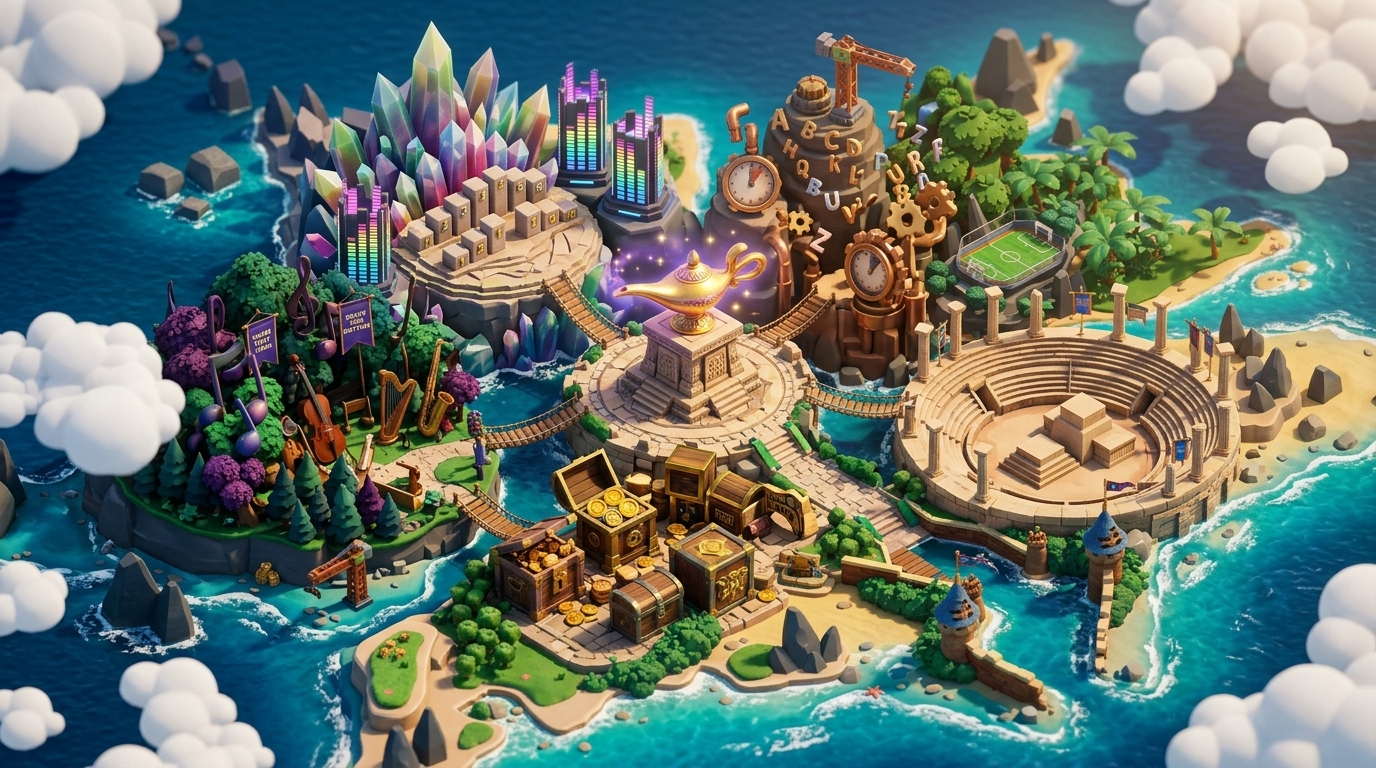
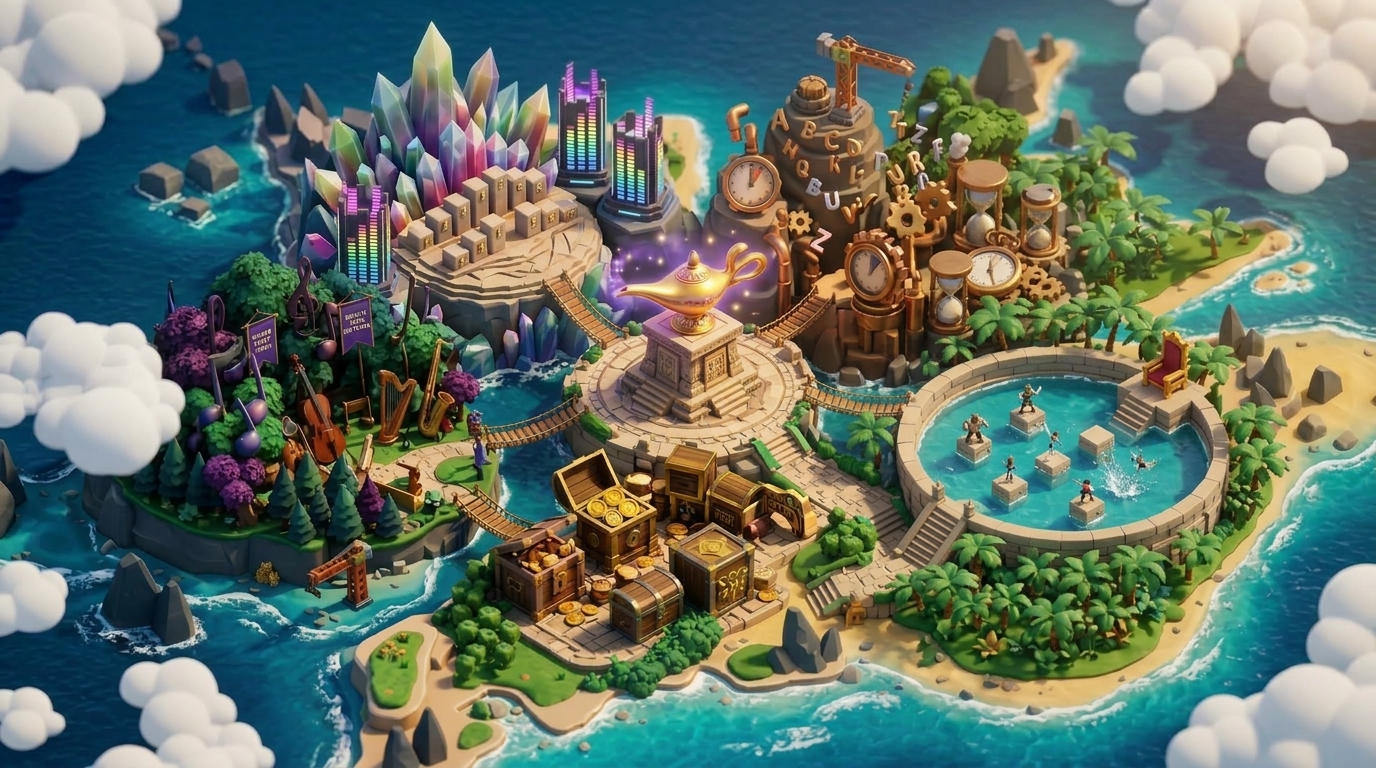
Aggiornamento automatico

diff --git a/Quiz/src/ClassificaGenerale_Board.tsx b/Quiz/src/ClassificaGenerale_Board.tsx
@@ -50,10 +50,10 @@ const EditableScore: React.FC<{ index: number; score: number; setScore: (i: numb
             (e.target as HTMLInputElement).blur();
           }
         }}
-        className="bg-transparent text-6xl font-black text-center w-full focus:outline-none focus:ring-2 focus:ring-white/20 rounded-xl transition-all hover:bg-white/5 cursor-text"
+        className="bg-transparent text-6xl font-black text-center w-full focus:outline-none focus:ring-2 focus:ring-white/20 rounded-xl transition-all hover:bg-white/5 cursor-text drop-shadow-[0_2px_8px_rgba(0,0,0,0.8)]"
         style={{ width: `${Math.max(displayValue.length, 3)}ch` }}
       />
-      <span className="text-2xl font-black ml-2 opacity-50">PT</span>
+      <span className="text-2xl font-black ml-2 opacity-70 drop-shadow-[0_2px_8px_rgba(0,0,0,0.8)]">PT</span>
       <div className="absolute -bottom-1 left-0 w-full h-0.5 bg-white/20 scale-x-0 group-hover:scale-x-100 transition-transform" />
     </div>
   );
@@ -167,10 +167,12 @@ const ClassificaGenerale_Board: React.FC = () => {
   const maxScore = Math.max(...scores, 10000); // Scale histogram to at least 10k
   const isBox0 = activeBox === 0;
 
+  const effectiveBg = (!isBox0 && (setup?.sfondo || '/Icone/sfondi/sfondo_generale_torneo.jpg')) || '';
+
   return (
     <div
       className="relative w-[1920px] h-[1080px] bg-[#0a0a0a] text-white flex flex-col px-10 py-8 overflow-hidden font-sans"
-      style={(!isBox0 && setup?.sfondo) ? { backgroundImage: `url("${assetUrl(setup.sfondo)}")`, backgroundSize: 'cover', backgroundPosition: 'center', backgroundRepeat: 'no-repeat' } : {}}
+      style={effectiveBg ? { backgroundImage: `url("${assetUrl(effectiveBg)}")`, backgroundSize: 'cover', backgroundPosition: 'center', backgroundRepeat: 'no-repeat' } : {}}
     >
       <style>{`
         @keyframes custom-blink {
@@ -182,8 +184,10 @@ const ClassificaGenerale_Board: React.FC = () => {
         }
       `}</style>
 
-      {/* Background decoration */}
-      {(!setup?.sfondo || isBox0) && (
+
+
+      {/* Background decoration in Box 0 */}
+      {(!effectiveBg || isBox0) && (
         <div className="absolute top-0 left-0 w-full h-full overflow-hidden pointer-events-none opacity-20">
           <div className="absolute top-[-10%] left-[-10%] w-[40%] h-[40%] bg-red-600/20 blur-[120px] rounded-full" />
           <div className="absolute top-[20%] right-[-10%] w-[40%] h-[40%] bg-blue-600/20 blur-[120px] rounded-full" />

diff --git a/Quiz/src/MappaTorneoBoard.tsx b/Quiz/src/MappaTorneoBoard.tsx
@@ -101,12 +101,12 @@ const ZONES: ZoneInfo[] = [
     x: 78,
     y: 62,
     zoomX: 78,
-    zoomY: 54,
+    zoomY: 55,
     title: 'TERMOPILI — SCONTRO FINALE',
     phaseNumber: 3,
     phaseLabel: 'FASE FINALE: TERMOPILI',
-    subtitle: 'La Resa dei Conti tra Prescelti',
-    description: 'Scontro finale! Le squadre schierano 6, 5, 4 o 3 prescelti in base al delta punti per decretare il vincitore.',
+    subtitle: 'L\'Arena d\'Acqua & La Scalinata del Trono',
+    description: 'Scontro finale sull\'arena d\'acqua! I prescelti si sfidano sui cubi sospesi: chi sbaglia fa splash! Chi conquisterà la scalinata verso il trono?',
     badgeEmoji: '⚔',
     accentColor: '#ef4444',
     bgGradient: 'from-rose-500 to-red-700',
@@ -177,12 +177,12 @@ function easeInOutCubic(x: number): number {
 function HeavyCloudBlanket({ isDissolving = false }: { isDissolving?: boolean }) {
   return (
     <div
-      className={`relative w-[820px] h-[540px] pointer-events-none select-none flex items-center justify-center transition-all duration-1000 ${
+      className={`relative w-[880px] h-[580px] pointer-events-none select-none flex items-center justify-center transition-all duration-1000 ${
         isDissolving ? 'opacity-0 scale-125' : 'opacity-100 scale-100'
       }`}
     >
       {/* Ombra di contatto morbida e racchiusa sotto il centro della nuvola */}
-      <div className="absolute w-[480px] h-[220px] rounded-full bg-black/25 blur-2xl transform scale-y-60 pointer-events-none" />
+      <div className="absolute w-[520px] h-[240px] rounded-full bg-black/25 blur-2xl transform scale-y-60 pointer-events-none" />
 
       {/* SVG Volumetrico ad alta densità con cumuli bianchi espansi e sfumature di luce */}
       <svg

diff --git a/Quiz/src/Gioco classifica musicale_Board.tsx b/Quiz/src/Gioco classifica musicale_Board.tsx
@@ -596,13 +596,15 @@ const ClassificaMusicaleBoard = ({ interactive = true, revealAll = false }: { in
     { value: 1, top: "89.000%" }  // Blu 4
   ];
 
+  const currentSfondo = (gameData as any).sfondo || '/Icone/sfondi/sfondo_box2_cristalli.jpg';
+
   return (
     <div 
-      className={`relative w-full min-h-screen ${(gameData as any).sfondo ? 'bg-black' : 'bg-gradient-to-br from-neutral-950 to-neutral-900'} overflow-hidden flex items-center justify-center transition-transform duration-100 ${showError ? 'animate-shake' : ''}`}
-      style={(gameData as any).sfondo ? { backgroundImage: assetUrlCss((gameData as any).sfondo), backgroundSize: 'cover', backgroundPosition: 'center', backgroundRepeat: 'no-repeat' } : {}}
+      className={`relative w-full min-h-screen ${currentSfondo ? 'bg-black' : 'bg-gradient-to-br from-neutral-950 to-neutral-900'} overflow-hidden flex items-center justify-center transition-transform duration-100 ${showError ? 'animate-shake' : ''}`}
+      style={currentSfondo ? { backgroundImage: assetUrlCss(currentSfondo), backgroundSize: 'cover', backgroundPosition: 'center', backgroundRepeat: 'no-repeat' } : {}}
     >
       {/* EFFETTI DI LUCE SULLO SFONDO (Decorativi) */}
-      {!(gameData as any).sfondo && (
+      {!currentSfondo && (
         <>
           <div className="absolute top-[-20%] left-[-10%] w-[50%] h-[50%] bg-blue-500/10 blur-[120px] rounded-full pointer-events-none" />
           <div className="absolute bottom-[-20%] right-[-10%] w-[50%] h-[50%] bg-purple-500/10 blur-[120px] rounded-full pointer-events-none" />

diff --git a/Quiz/src/Gioco classifica_Board.tsx b/Quiz/src/Gioco classifica_Board.tsx
@@ -250,13 +250,15 @@ const ClassificaBoard = ({ interactive = true, revealAll = false }: { interactiv
     { value: 1, top: "89.370%" }
   ];
 
+  const currentSfondo = (gameData as any).sfondo || '/Icone/sfondi/sfondo_box2_cristalli.jpg';
+
   return (
     <div 
-      className={`relative w-full min-h-screen ${(gameData as any).sfondo ? 'bg-black' : 'bg-gradient-to-br from-neutral-950 to-neutral-900'} overflow-hidden flex items-center justify-center transition-transform duration-100 ${showError ? 'animate-shake' : ''}`}
-      style={(gameData as any).sfondo ? { backgroundImage: assetUrlCss((gameData as any).sfondo), backgroundSize: 'cover', backgroundPosition: 'center', backgroundRepeat: 'no-repeat' } : {}}
+      className={`relative w-full min-h-screen ${currentSfondo ? 'bg-black' : 'bg-gradient-to-br from-neutral-950 to-neutral-900'} overflow-hidden flex items-center justify-center transition-transform duration-100 ${showError ? 'animate-shake' : ''}`}
+      style={currentSfondo ? { backgroundImage: assetUrlCss(currentSfondo), backgroundSize: 'cover', backgroundPosition: 'center', backgroundRepeat: 'no-repeat' } : {}}
     >
       {/* EFFETTI DI LUCE SULLO SFONDO (Decorativi) */}
-      {!(gameData as any).sfondo && (
+      {!currentSfondo && (
         <>
           <div className="absolute top-[-20%] left-[-10%] w-[50%] h-[50%] bg-blue-500/10 blur-[120px] rounded-full pointer-events-none" />
           <div className="absolute bottom-[-20%] right-[-10%] w-[50%] h-[50%] bg-purple-500/10 blur-[120px] rounded-full pointer-events-none" />

diff --git a/Quiz/src/Il mio nome è nessuno_musicale_Board.tsx b/Quiz/src/Il mio nome è nessuno_musicale_Board.tsx
@@ -458,10 +458,12 @@ const GameBoard: React.FC<{ interactive?: boolean; revealAll?: boolean }> = ({ i
     return () => window.removeEventListener('keydown', handleKeyDown);
   }, [step, isAutoAdvancing, lockedStep, setLockedStep, setAssignedTeam, setBookedTeam]);
 
+  const currentSfondo = gameData.sfondo || '/Icone/sfondi/sfondo_box1_foresta_musicale.jpg';
+
   return (
     <div 
-      className={`relative w-full min-h-screen ${gameData.sfondo ? 'bg-black' : 'bg-gradient-to-br from-neutral-950 to-neutral-900'} overflow-hidden flex items-center justify-center transition-transform duration-100 ${showError ? 'animate-shake' : ''}`}
-      style={gameData.sfondo ? { backgroundImage: assetUrlCss(gameData.sfondo), backgroundSize: 'cover', backgroundPosition: 'center', backgroundRepeat: 'no-repeat' } : {}}
+      className={`relative w-full min-h-screen ${currentSfondo ? 'bg-black' : 'bg-gradient-to-br from-neutral-950 to-neutral-900'} overflow-hidden flex items-center justify-center transition-transform duration-100 ${showError ? 'animate-shake' : ''}`}
+      style={currentSfondo ? { backgroundImage: assetUrlCss(currentSfondo), backgroundSize: 'cover', backgroundPosition: 'center', backgroundRepeat: 'no-repeat' } : {}}
     >
       
       {/* Overlay di Errore (Flash Rosso + X Centrale) */}

diff --git a/Quiz/src/Il mio nome è nessuno_img_Board.tsx b/Quiz/src/Il mio nome è nessuno_img_Board.tsx
@@ -293,10 +293,12 @@ const GameBoard = ({ interactive = true, revealAll = false }: { interactive?: bo
     return step >= (revealStep * 2);
   };
 
+  const currentSfondo = gameData.sfondo || '/Icone/sfondi/sfondo_box1_foresta_musicale.jpg';
+
   return (
     <div
-      className={`relative w-full h-full ${gameData.sfondo ? 'bg-black' : 'bg-gradient-to-br from-neutral-950 to-neutral-900'} overflow-hidden transition-transform duration-100 ${showError ? 'animate-shake' : ''}`}
-      style={gameData.sfondo ? { backgroundImage: assetUrlCss(gameData.sfondo), backgroundSize: 'cover', backgroundPosition: 'center', backgroundRepeat: 'no-repeat' } : {}}
+      className={`relative w-full h-full ${currentSfondo ? 'bg-black' : 'bg-gradient-to-br from-neutral-950 to-neutral-900'} overflow-hidden transition-transform duration-100 ${showError ? 'animate-shake' : ''}`}
+      style={currentSfondo ? { backgroundImage: assetUrlCss(currentSfondo), backgroundSize: 'cover', backgroundPosition: 'center', backgroundRepeat: 'no-repeat' } : {}}
     >
       {/* Overlay Errore */}
       {showError && (

diff --git a/Quiz/src/views/SequentialQuizView.tsx b/Quiz/src/views/SequentialQuizView.tsx
@@ -115,7 +115,7 @@ export function getSlideForBoxQuestion(
 
   if (boxNum === 1) {
     const q1 = setupState.gioco1?.questions?.[questionNum] || createDefaultGioco1Question();
-    const sf = q1.sfondo || setupState.gioco1?.sfondoGenerale || '';
+    const sf = q1.sfondo || setupState.gioco1?.sfondoGenerale || '/Icone/sfondi/sfondo_box1_foresta_musicale.jpg';
     if (q1.tipo === 'canzone') {
       const data = {
         indizi: [
@@ -196,7 +196,7 @@ export function getSlideForBoxQuestion(
 
   if (boxNum === 2) {
     const q2 = setupState.gioco2?.questions?.[questionNum] || createDefaultGioco2Question();
-    const sf = q2.sfondo || setupState.gioco2?.sfondoGenerale || '';
+    const sf = q2.sfondo || setupState.gioco2?.sfondoGenerale || '/Icone/sfondi/sfondo_box2_cristalli.jpg';
     if (q2.tipo === 'canzone') {
       const data = {
         titolo: q2.canzone.domanda || q2.canzone.titolo || 'Classifica Musicale',

diff --git a/Quiz/src/views/QuizSetupView.tsx b/Quiz/src/views/QuizSetupView.tsx
@@ -424,13 +424,13 @@ export function getDefaultSetupState(): QuizSetupState {
       selectedQuestion: 1,
       videoSpiegazione: '',
       questions: q1,
-      sfondoGenerale: '',
+      sfondoGenerale: '/Icone/sfondi/sfondo_box1_foresta_musicale.jpg',
     },
     gioco2: {
       selectedQuestion: 1,
       videoSpiegazione: '',
       questions: q2,
-      sfondoGenerale: '',
+      sfondoGenerale: '/Icone/sfondi/sfondo_box2_cristalli.jpg',
     },
     gioco3: {
       selectedQuestion: 1,
@@ -454,7 +454,7 @@ export function getDefaultSetupState(): QuizSetupState {
       notePresentatore: '',
     },
     punteggi: {
-      sfondo: '',
+      sfondo: '/Icone/sfondi/sfondo_generale_torneo.jpg',
       nomiSquadre: ['SQUADRA 1', 'SQUADRA 2', 'SQUADRA 3'],
       iconeBonus: ['', '', '', ''],
     },

diff --git a/Quiz/src/lib/assetUrl.ts b/Quiz/src/lib/assetUrl.ts
@@ -117,6 +117,10 @@ export const KNOWN_PUBLIC_ASSETS: Record<string, string> = {
   // Sfondi e Finale
   'sfondo_finale_acqua.jpg': '/sfondo_finale_acqua.jpg',
   'sfondo_finale_default.jpg': '/sfondo_finale_default.jpg',
+  'sfondo_box1_foresta_musicale.jpg': '/Icone/sfondi/sfondo_box1_foresta_musicale.jpg',
+  'sfondo_box2_cristalli.jpg': '/Icone/sfondi/sfondo_box2_cristalli.jpg',
+  'sfondo_box3_forzieri.jpg': '/Icone/sfondi/sfondo_box3_forzieri.jpg',
+  'sfondo_generale_torneo.jpg': '/Icone/sfondi/sfondo_generale_torneo.jpg',
   'trofeo_vittoria.png': '/Icone/finale/trofeo_vittoria.png',
   'coppa.png': '/coppa.png',
   // Sfondi Password
